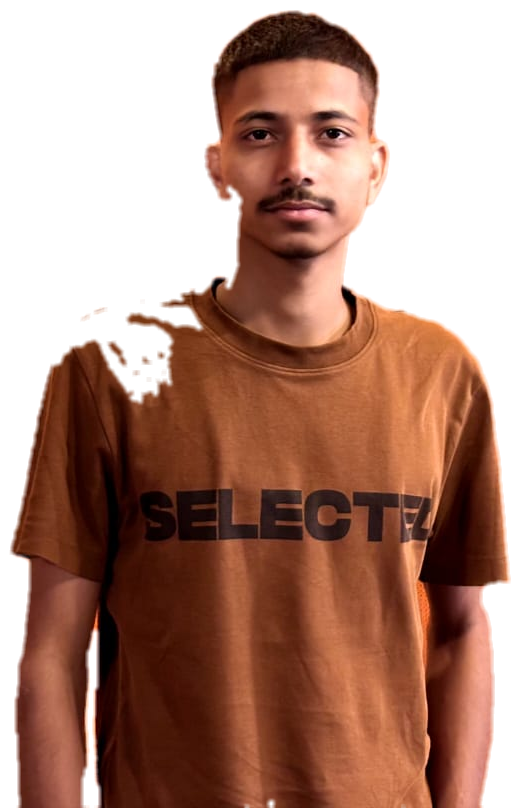
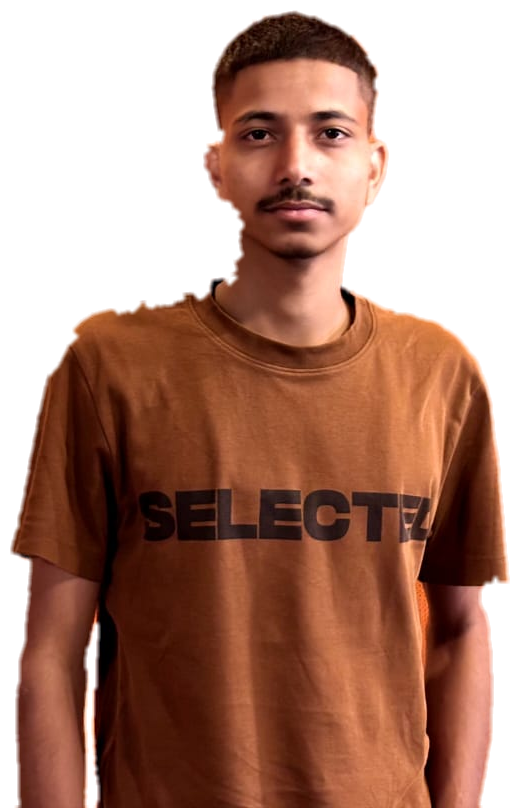
feat: update Home page portrait with new cutout image and enhanced styling

diff --git a/src/pages/Pages.css b/src/pages/Pages.css
@@ -245,93 +245,84 @@
 }
 
 /* --------------------------------------------------------- home portrait ---- */
-/* The photo is masked and graded instead of framed, so its edges dissolve into
-   the star field rather than sitting in a hard box. */
+/* public/rahul_photo-removebg-preview.png already has its background removed, so
+   there is nothing left to frame — no ring, no panel, no rounded box. The figure
+   itself is the shape.
+
+   That file is the full 375x666 studio frame, and the figure only occupies
+   (72,250)-(333,665) of it — measured from the file's alpha channel. Everything
+   below crops to that box in CSS rather than by re-exporting the image, so the
+   pasted file stays byte-for-byte the source of truth. Container aspect is the
+   crop box 278x424 (8px of padding around the figure); the image is laid over it
+   at 375/278 = 134.89% width, pulled left by 64/278 = 23.02% and pinned to the
+   bottom, which puts source (64,242) exactly on the container's top-left. */
 .home-portrait {
   position: relative;
   justify-self: end;
+  align-self: end;
   width: 100%;
-  max-width: 27rem;
-  aspect-ratio: 4 / 5;
-  max-height: min(62vh, 34rem);
-}
-
-.home-portrait img {
-  position: relative;
-  z-index: 1;
-  width: 100%;
-  height: 100%;
-  object-fit: cover;
-  object-position: 50% 16%;
-  /* Cooled and dimmed to sit in the same light as the background. */
-  filter: grayscale(0.32) contrast(1.06) brightness(0.88) saturate(0.92);
-  /* The dissolve: fully opaque at the centre, gone before the edges. */
-  -webkit-mask-image: radial-gradient(
-    64% 58% at 52% 40%,
-    #000 46%,
-    rgba(0, 0, 0, 0.6) 70%,
-    transparent 88%
-  );
-  mask-image: radial-gradient(
-    64% 58% at 52% 40%,
-    #000 46%,
-    rgba(0, 0, 0, 0.6) 70%,
-    transparent 88%
-  );
-  transition: filter 0.6s ease, transform 0.6s ease;
+  max-width: 22rem;
+  aspect-ratio: 278 / 424;
+  /* Kept near the figure's native 416px so it is never upscaled into mush. */
+  max-height: min(62vh, 29rem);
+  /* Hides the empty part of the source frame. Nothing visible is cut: the crop
+     lines sit 8px outside the figure, in fully transparent pixels. */
+  overflow: hidden;
+  /* The figure runs off the bottom of the photo. Fading it there is what stops
+     that straight line from reading as an edge against the page. */
+  -webkit-mask-image: linear-gradient(180deg, #000 62%, rgba(0, 0, 0, 0.4) 85%, transparent 100%);
+  mask-image: linear-gradient(180deg, #000 62%, rgba(0, 0, 0, 0.4) 85%, transparent 100%);
   animation: portrait-float 9s ease-in-out infinite;
 }
 
-/* Hovering brings the photo out of the background. */
+.home-portrait img {
+  position: absolute;
+  left: -23.02%;
+  bottom: 0;
+  width: 134.89%;
+  height: auto;
+  /* Drains the warm studio cast. Left alone the photo glows orange against a
+     near-black blue page and reads as a sticker pasted on top of it. */
+  filter: saturate(0.4) brightness(0.9) contrast(1.08);
+  transition: filter 0.6s ease;
+}
+
+/* The cool grade, clipped to the figure by the photo's own alpha. A plain
+   rectangle here would paint straight back the boxy edge the cut-out removes.
+   Positioned with the same numbers as the image above, so the two register
+   exactly and mask-size can stay at 100% 100%. */
+.home-portrait::after {
+  content: '';
+  position: absolute;
+  left: -23.02%;
+  bottom: 0;
+  width: 134.89%;
+  aspect-ratio: 375 / 666;
+  background: linear-gradient(
+    195deg,
+    rgba(124, 140, 255, 0.55) 0%,
+    rgba(79, 216, 232, 0.3) 52%,
+    rgba(160, 92, 255, 0.4) 100%
+  );
+  mix-blend-mode: soft-light;
+  -webkit-mask-image: url('/rahul_photo-removebg-preview.png');
+  mask-image: url('/rahul_photo-removebg-preview.png');
+  -webkit-mask-size: 100% 100%;
+  mask-size: 100% 100%;
+  -webkit-mask-repeat: no-repeat;
+  mask-repeat: no-repeat;
+  pointer-events: none;
+}
+
+/* Hover brings the real colour back. Only the grade changes — nothing moves, so
+   the tint above can never drift out of register with the photo. */
 .home-portrait:hover img {
-  filter: grayscale(0) contrast(1.04) brightness(1) saturate(1.05);
-  transform: scale(1.02);
+  filter: saturate(0.9) brightness(1.02) contrast(1.03);
 }
 
 @keyframes portrait-float {
   0%, 100% { translate: 0 0; }
   50% { translate: 0 -12px; }
-}
-
-/* Soft accent light behind the figure. */
-.portrait-glow {
-  position: absolute;
-  inset: -12% -8% -4%;
-  z-index: 0;
-  background:
-    radial-gradient(48% 44% at 54% 34%, rgba(124, 140, 255, 0.3), transparent 70%),
-    radial-gradient(40% 38% at 40% 72%, rgba(79, 216, 232, 0.16), transparent 70%);
-  filter: blur(18px);
-  pointer-events: none;
-}
-
-/* Thin orbiting ring — pure decoration, keeps the right column from feeling flat. */
-.portrait-ring {
-  position: absolute;
-  inset: 4% 6% 8%;
-  z-index: 0;
-  border: 1px dashed rgba(255, 255, 255, 0.14);
-  border-radius: 50%;
-  animation: ring-spin 34s linear infinite;
-  pointer-events: none;
-}
-
-@keyframes ring-spin {
-  to { transform: rotate(360deg); }
-}
-
-/* Fades the bottom of the photo into the page so there is no cut-off edge. */
-.portrait-veil {
-  position: absolute;
-  inset: 0;
-  z-index: 2;
-  background: linear-gradient(
-    180deg,
-    transparent 55%,
-    rgba(3, 5, 12, 0.55) 82%,
-    rgba(3, 5, 12, 0.9) 100%
-  );
-  pointer-events: none;
 }
 
 /* ----------------------------------------------------------------- about ---- */
@@ -887,13 +878,10 @@
   .home-portrait {
     order: -1;
     justify-self: center;
-    max-width: 13rem;
-    aspect-ratio: 1;
-    max-height: none;
-  }
-
-  .portrait-veil {
-    display: none;
+    /* Stacked above the copy, so it shrinks to a portrait bust. The aspect ratio
+       is kept — squashing it to a square would crop the figure. */
+    max-width: 15rem;
+    max-height: 40vh;
   }
 
   .home-page {
@@ -949,8 +937,7 @@
     transform: none;
   }
 
-  .home-portrait img,
-  .portrait-ring,
+  .home-portrait,
   .status-dot,
   .live-dot {
     animation: none;

diff --git a/src/pages/Home.jsx b/src/pages/Home.jsx
@@ -50,13 +50,17 @@ const Home = () => {
           </div>
         </div>
 
-        {/* The portrait is masked and graded rather than framed, so its edges
-            dissolve into the star field instead of sitting in a hard box. */}
-        <div className="home-portrait" aria-hidden="false">
-          <span className="portrait-glow" />
-          <span className="portrait-ring" />
-          <img src="/rahul_photo.jpeg" alt="Rahul Yadav" width="720" height="900" />
-          <span className="portrait-veil" />
+        {/* No frame, no ring, no box: the photo's background is already removed,
+            so the figure's own silhouette is the edge. Pages.css crops the empty
+            part of the frame, grades the photo into the page's cool light and
+            dissolves the bottom, where the torso runs out of the photo. */}
+        <div className="home-portrait">
+          <img
+            src="/rahul_photo-removebg-preview.png"
+            alt="Rahul Yadav"
+            width="375"
+            height="666"
+          />
         </div>
       </div>
     </div>
